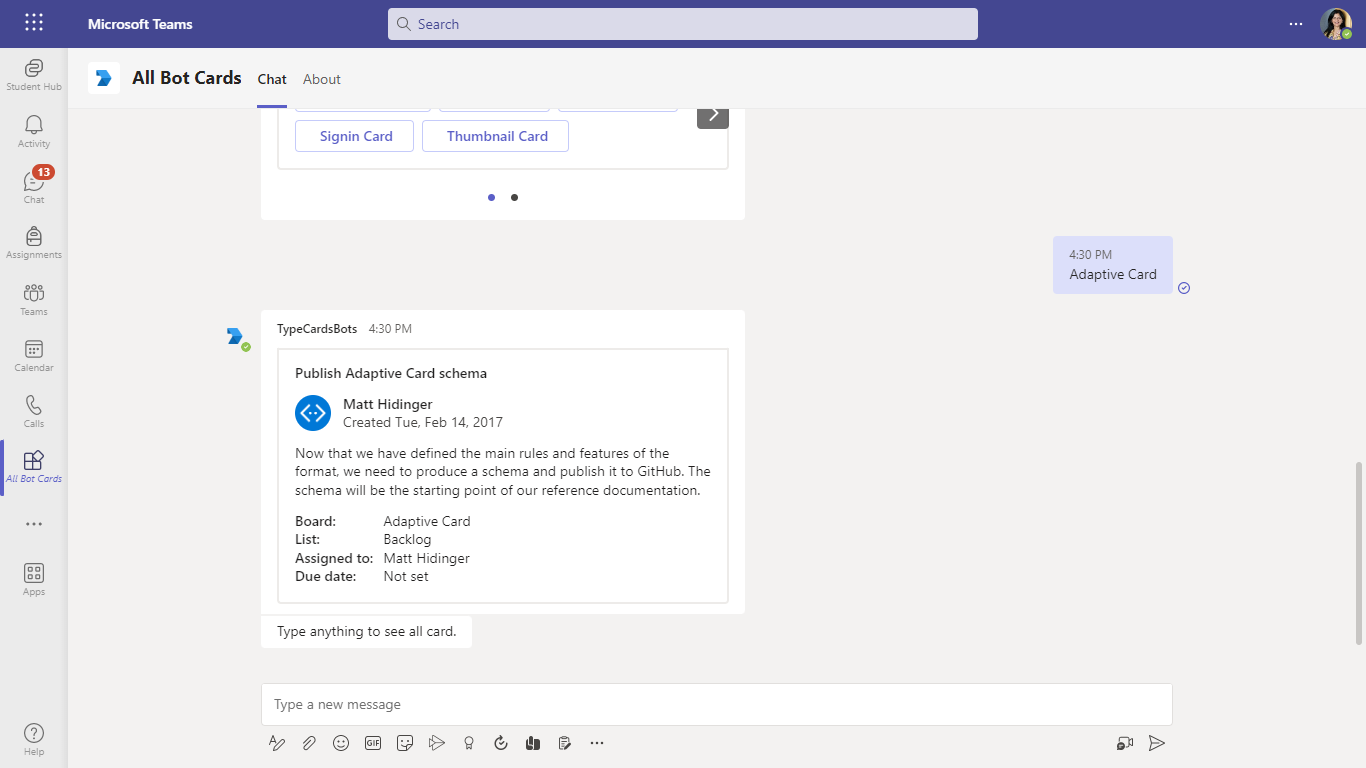
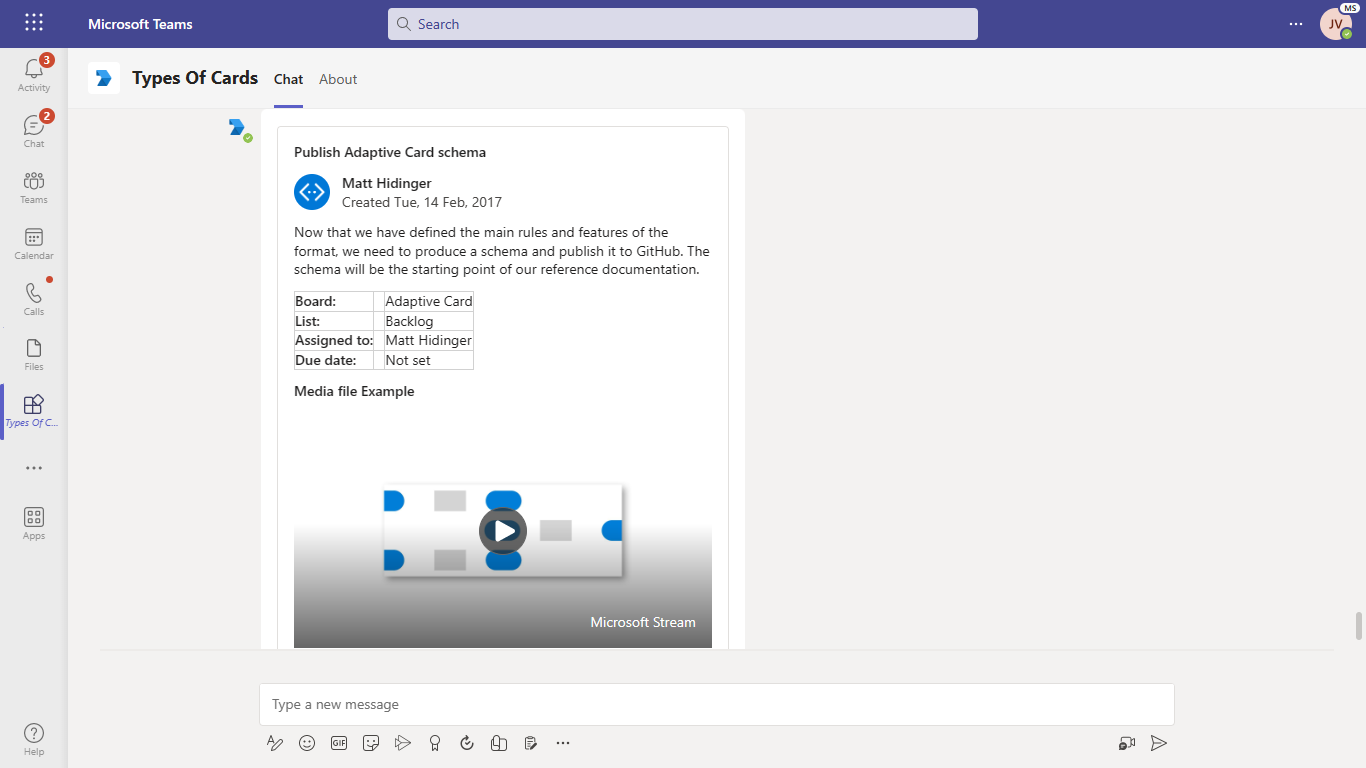
added media element property to adaptive card

diff --git a/samples/bot-all-cards/csharp/README.md b/samples/bot-all-cards/csharp/README.md
@@ -118,7 +118,9 @@ Please find below demo manifest which is deployed on Microsoft Azure and you can
   - `{{Microsoft-App-Id}}` - Generated from Step 1 is the application app id
   - `{{ Microsoft-App-Password}}` - Generated from Step 1, also referred to as Client secret
   - `{{ Microsoft-App-TenantId }}` - Generated from Step 1 is the tenantId id
-  - `{{ ConnectionName }}` - ConnectionName (OAuth Connection Name) 
+  - `{{ ConnectionName }}` - ConnectionName (OAuth Connection Name)
+
+4) Navigate to `\Resources\adaptiveCard.json` and add you media file link from OneDrive or SharePoint at placeholder `<< URL >>`
 
   **Bot OAuth Connection:**
 
